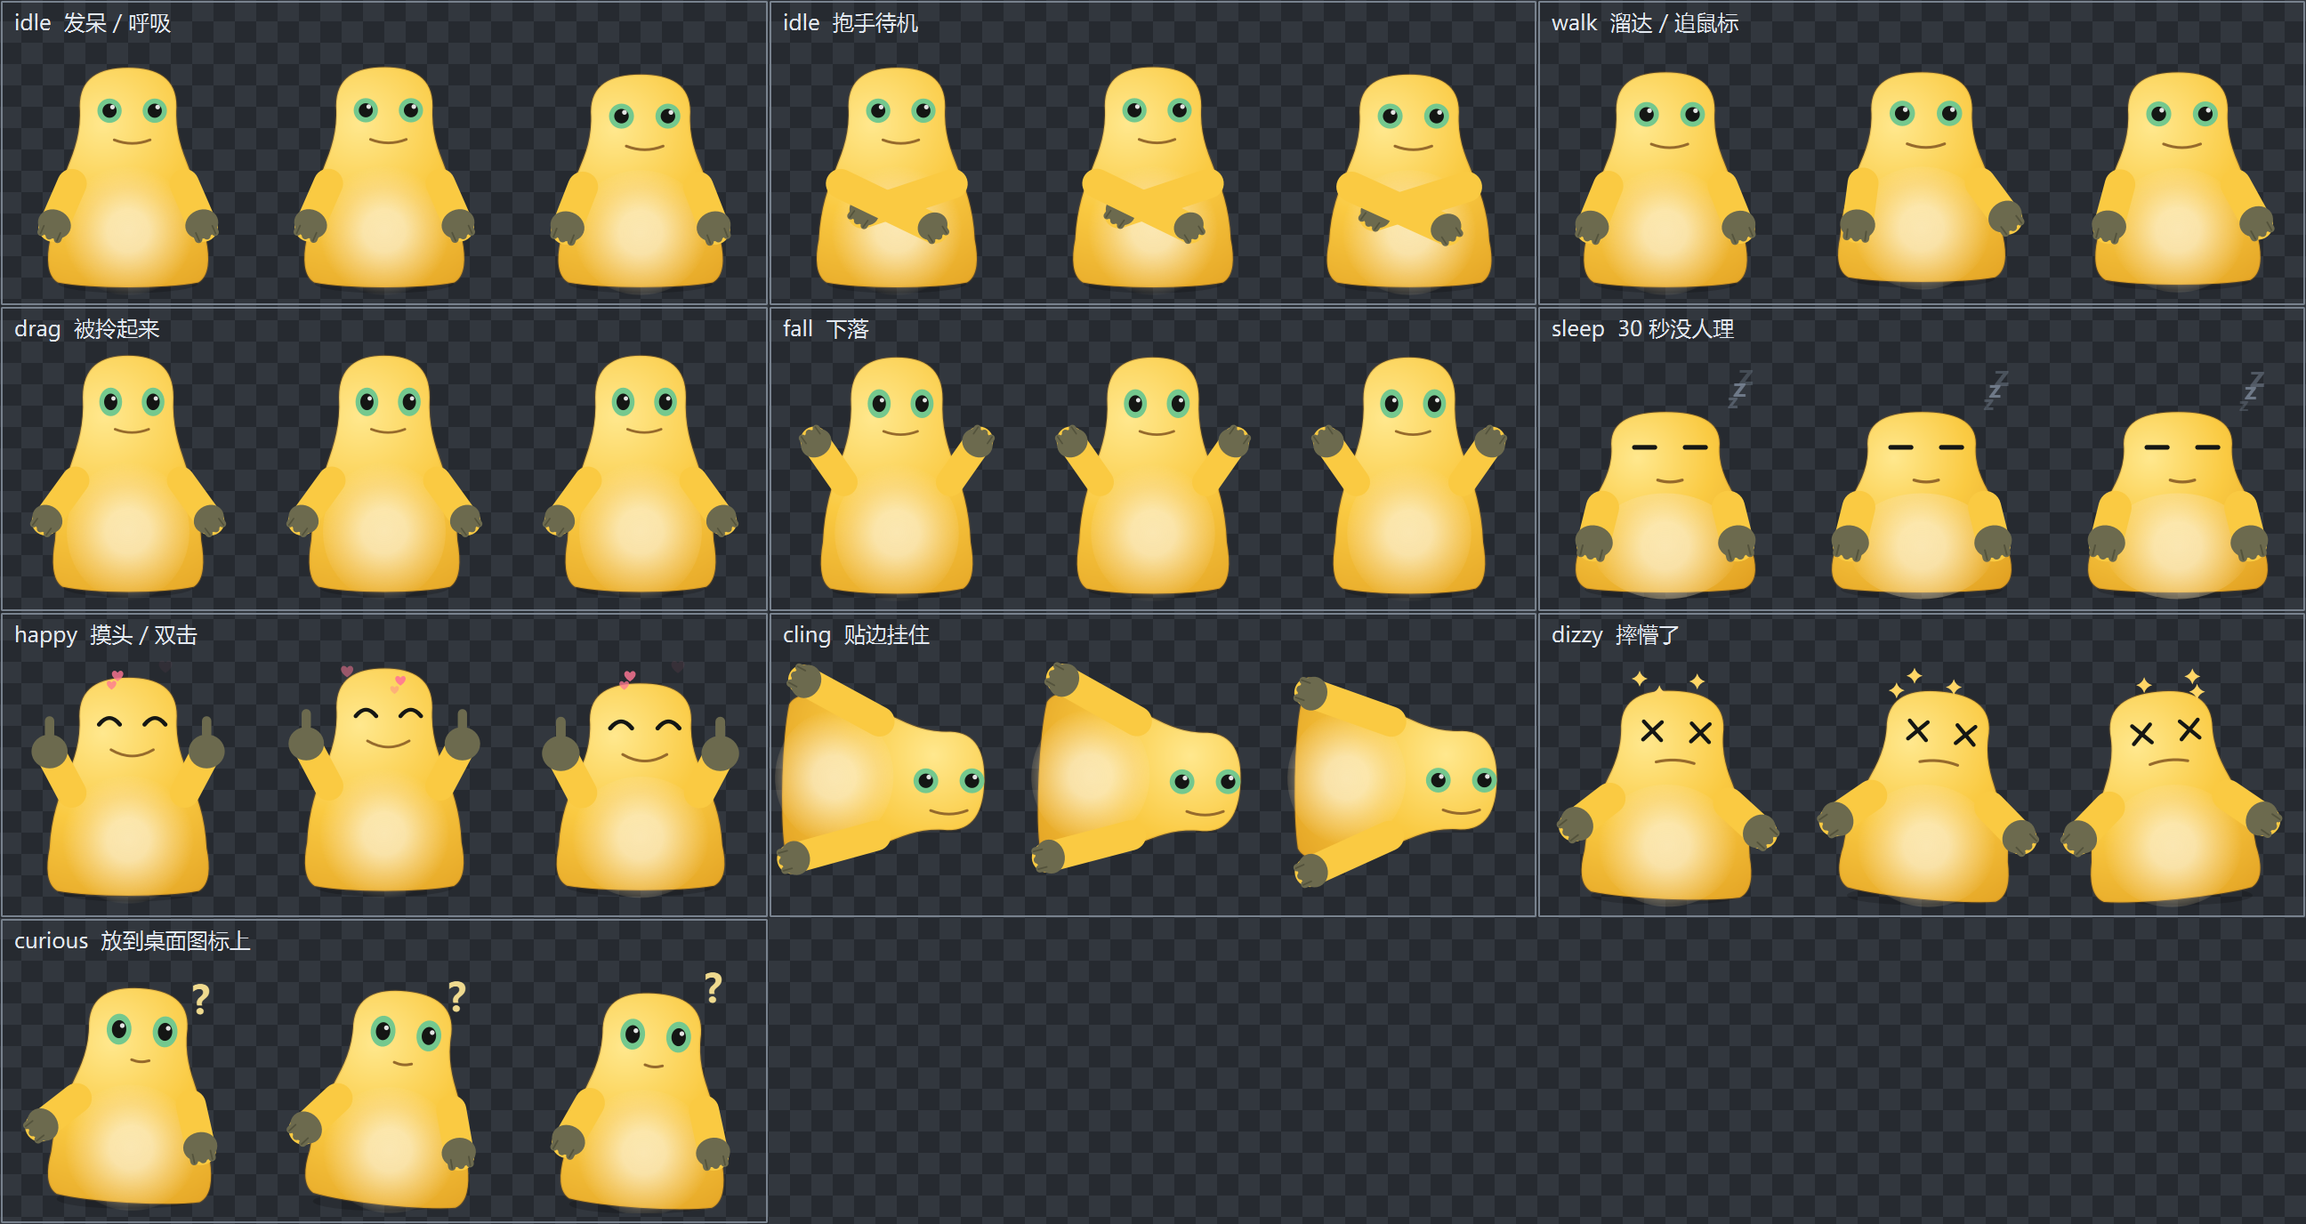
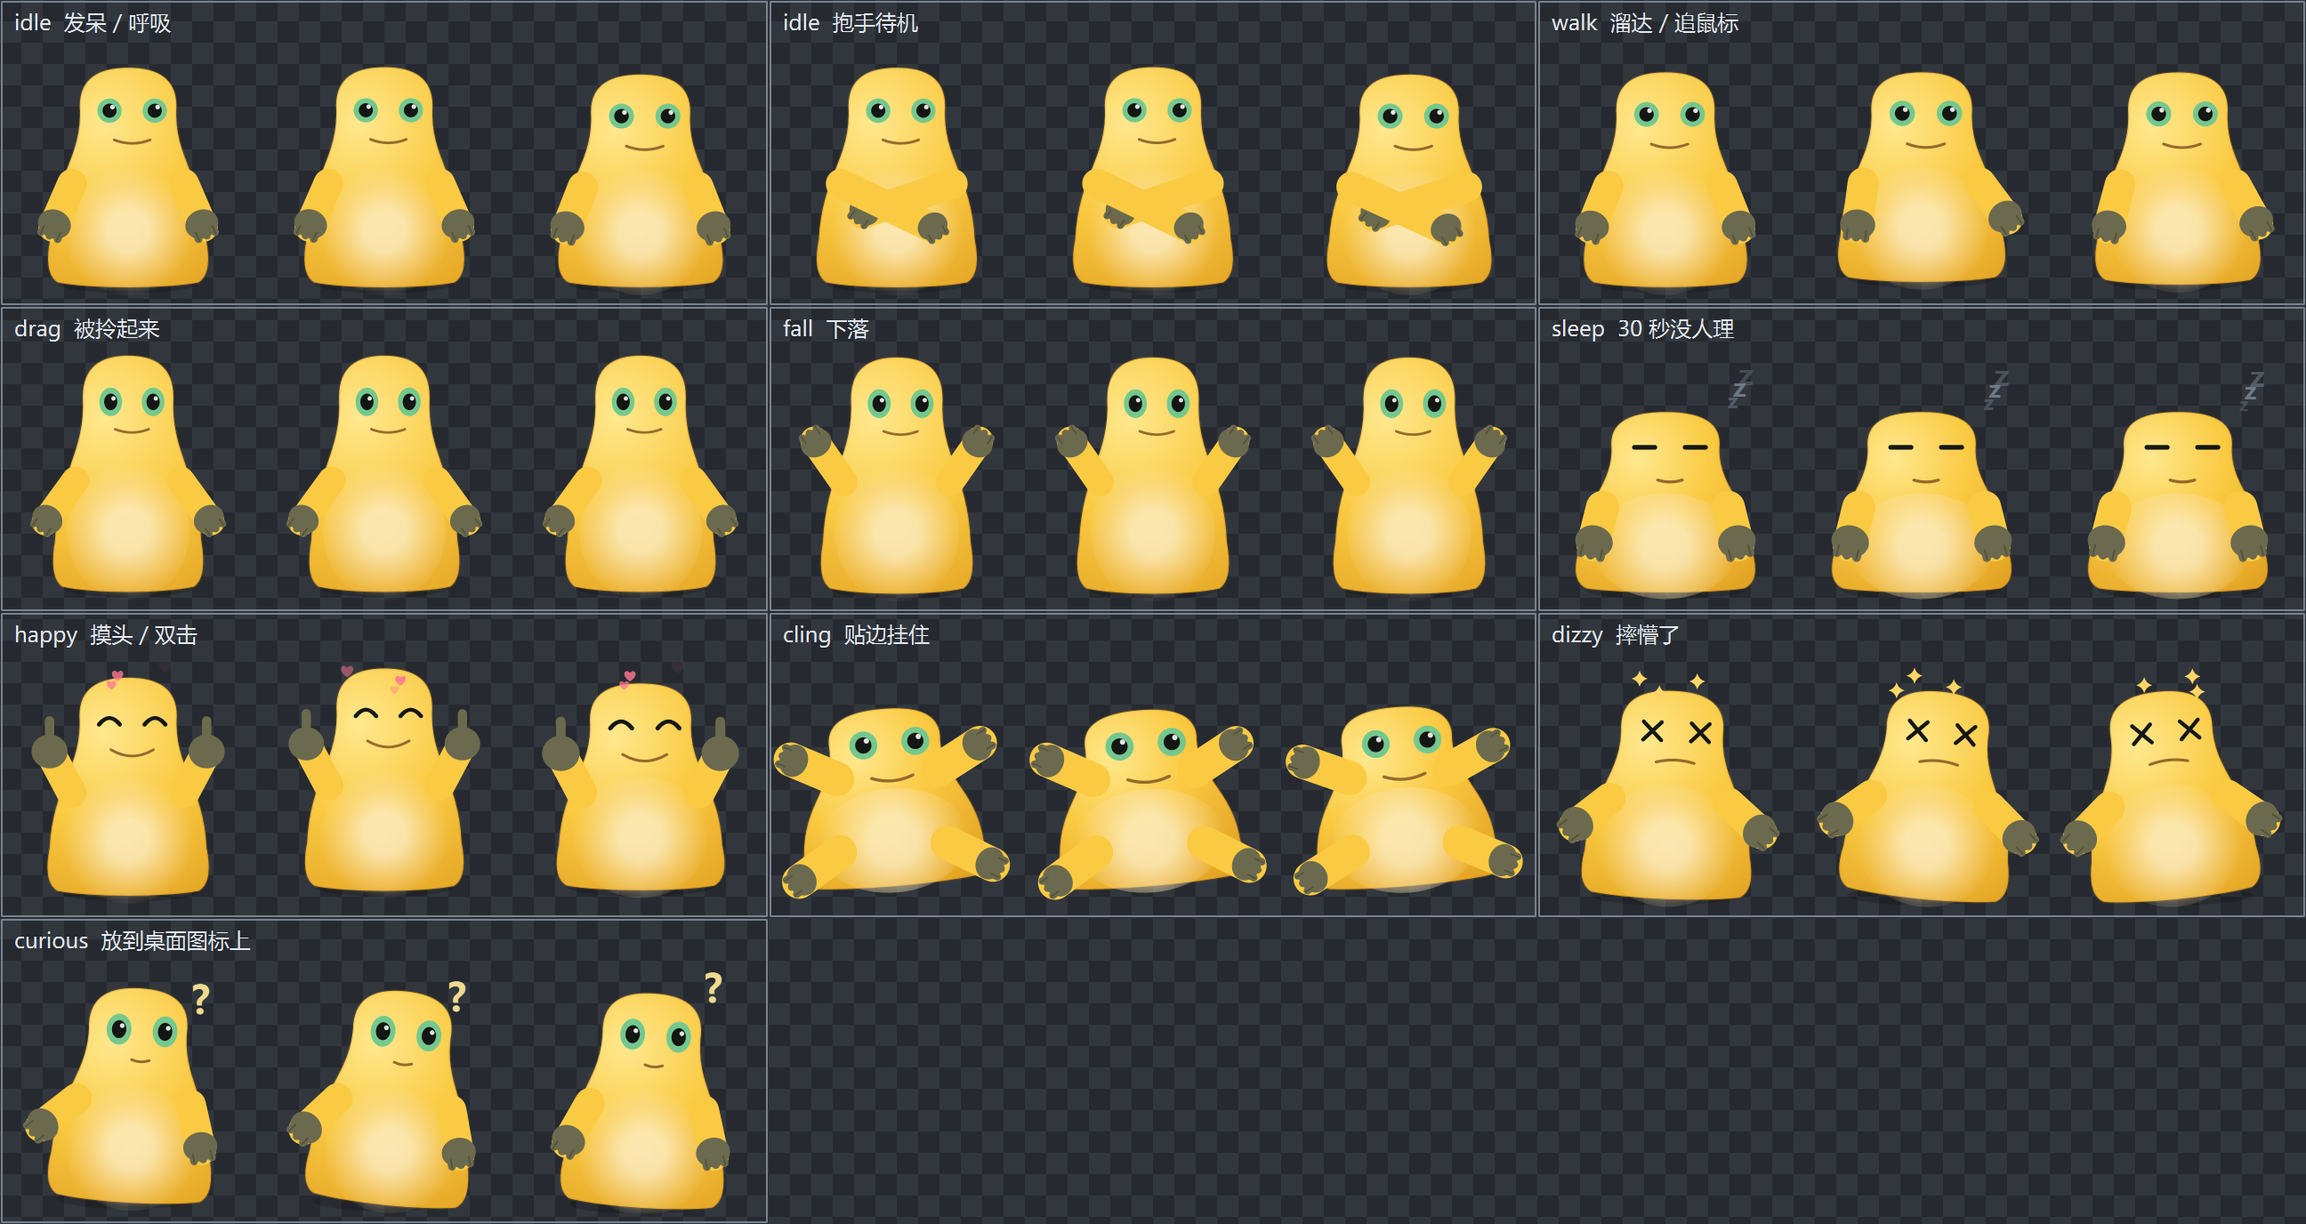
扒墙改成蜘蛛式：正面朝观众，四肢朝四角张开
用户反馈原来的贴墙动作"有点怪"，给了张蜘蛛侠扒墙的参考图。

这个姿势前后改了三版，每版失败的方式不同，但指向同一条规律：

1. 站着往墙上蹭一点 —— 读起来像在挥手。
2. 整只转 90° 横贴 —— 剪影和几何都对，手确实按在墙线上，但读起来是"躺倒"。
3. 正面朝观众、四肢朝四角张开 —— 对了。

中间还试过"直立+倾斜+手臂上举"和"横贴+手臂张开"，都不行。规律是：
正面视角的 2D 角色，靠墙那侧的肢体会被身体自己挡住，所以任何侧贴画法都
看不到接触点，而看不到接触点就读不出"扒住"。横贴那版张开手臂反而更糟——
手会朝离开墙的方向甩出去，连仅有的接触也丢了。

真正让人认出"扒住"的是四肢朝四个方向张开、接触点拉得很开。所以新增
_draw_spread_limbs()，不复用 _arm_angles() 那套绕肩角度——那是给站立姿势
设计的，只有两条肢体且都从体侧垂下；扒墙要四个朝外的锚点，用绝对方向角更清楚。

几何是量出来的：第一版四肢顶出画布，dump 包围盒发现"顶部空 34px、左右和底部
都顶死"，于是整体上移 7px、张开幅度收到 0.28w。最外侧的手落在离屏幕边 2px。

两个断言旧设计的测试（转 90°、绕画布中心旋转）改成断言新意图：压扁、微倾、
倾斜方向朝墙。about_centre 这个能力保留，只是暂时没人用了。

Changed region(s): [[0.3125, 0.5312, 0.6562, 0.75]]

diff --git a/vpet/render.py b/vpet/render.py
@@ -76,17 +76,19 @@ def pose_for(state: State, t: float, facing: int = 1) -> Pose:
         hop = math.sin(t * 8.0)
         return Pose(sx=1 - 0.035 * hop, sy=1 + 0.045 * hop, dy=-abs(hop) * 6.0)
     if state is State.CLING:
-        # 趴在墙上：整只转 90°，脚底顶着墙，屏幕上是一个横躺的剪影。
-        # facing=1 表示趴在左墙上，脚要朝左 —— Qt 里正角度是顺时针，
-        # 而"下"(0,1) 顺时针转 90° 正好变成"左"(-1,0)，所以直接乘 facing。
-        # 再叠一点点晃动表示没趴稳。
-        # dy 不是随手调的：身体在画布里本来是偏下的（脚在底、头在上），
-        # 而支点在画布正中。不先把身体挪到支点上，转 90° 之后长轴就会偏向一侧、
-        # 顶出画布被裁。-11 正好让身体的竖直中心落在 size/2 上。
+        # 扒在墙上：正面朝着观众，身体压扁，四肢朝四角张开（见 _paint_arms）。
+        #
+        # 试过把整只转 90°"横贴"在屏幕边上 —— 手确实按在墙线上，几何是对的，
+        # 但读起来是"躺倒"而不是"扒住"。正面视角的 2D 角色有个绕不开的限制：
+        # **靠墙那侧的肢体会被身体自己挡住**，所以任何"侧贴"的画法都看不到
+        # 接触点。真正让人一眼认出"扒住"的是**四肢朝四个方向张开、
+        # 接触点拉得很开**，而不是身体贴着哪条线。
+        breathe = math.sin(t * 2.0)
         return Pose(
-            sx=1.0, sy=0.94, dy=-3.0,
-            rot=facing * 90.0 + math.sin(t * 1.9) * 3.0,
-            about_centre=True,
+            sx=1.12 + 0.02 * breathe,       # 压扁：贴在面上而不是站着
+            sy=0.84 - 0.02 * breathe,
+            dy=-7.0,                        # 四肢往下张，整体抬起来才不顶到画布底
+            rot=-facing * 5.0,
         )
     if state is State.DIZZY:
         return Pose(sx=1.04, sy=0.97, rot=math.sin(t * 8.0) * 7.0)
@@ -317,6 +319,10 @@ class BlobPet:
         thickness = w * 0.19
         hand_r = w * 0.115
 
+        if state is State.CLING:
+            self._draw_spread_limbs(p, t, cx, bottom, w, h, thickness, hand_r * 0.85)
+            return
+
         if posture is Posture.CROSSED:
             self._draw_crossed_arms(p, cx, shoulder_y, shoulder_x, w, h, thickness, hand_r)
             return
@@ -328,6 +334,34 @@ class BlobPet:
         thumb = state is State.HAPPY
         self._draw_arm(p, QPointF(cx - shoulder_x, shoulder_y), -1, left, length, thickness, hand_r, thumb)
         self._draw_arm(p, QPointF(cx + shoulder_x, shoulder_y), 1, right, length, thickness, hand_r, thumb)
+
+    def _draw_spread_limbs(
+        self, p: QPainter, t: float, cx: float, bottom: float,
+        w: float, h: float, thickness: float, hand_r: float,
+    ) -> None:
+        """扒住墙面的四肢：两手朝上外、两"脚"朝下外，像壁虎吸在玻璃上。
+
+        这里刻意不复用 _arm_angles 那套"绕肩膀转的角度"——那套是给站立姿势
+        设计的，只有两条肢体、而且都从身体两侧垂下。扒墙需要的是四个朝外的
+        接触点，用绝对方向角直接写更清楚。
+        """
+        sway = math.sin(t * 2.3) * 4.0
+        reach = w * 0.28
+        # (肩/胯的横向偏移, 高度比例, 伸出方向角) —— 角度 0=正右, 90=正下
+        limbs = (
+            (-0.28, 0.62, 205.0 + sway), (0.28, 0.62, -25.0 - sway),   # 手：朝上外
+            (-0.30, 0.20, 152.0 - sway), (0.30, 0.20, 28.0 + sway),    # 脚：朝下外
+        )
+        for offset, height, degrees in limbs:
+            root = QPointF(cx + offset * w, bottom - height * h)
+            angle = math.radians(degrees)
+            tip = QPointF(root.x() + math.cos(angle) * reach,
+                          root.y() + math.sin(angle) * reach)
+            p.setPen(QPen(self.BODY_MID, thickness, Qt.SolidLine, Qt.RoundCap))
+            p.drawLine(root, tip)
+            p.setPen(Qt.NoPen)
+            self._draw_hand(p, tip, hand_r,
+                            _hand_rotation(tip.x() - root.x(), tip.y() - root.y()))
 
     def _draw_crossed_arms(
         self, p: QPainter, cx: float, shoulder_y: float, shoulder_x: float,

diff --git a/tests/test_render.py b/tests/test_render.py
@@ -150,17 +150,21 @@ class TestStates(unittest.TestCase):
             pet.render(State.IDLE, 0.5, 1, 1.0, Posture.RELAXED),
         )
 
-    def test_cling_lies_flat_against_the_wall(self):
-        """趴墙是整只转 90°，不是站着往墙上蹭 —— 后者读起来像在挥手。"""
-        for facing in (1, -1):
-            rot = pose_for(State.CLING, 0.0, facing).rot
-            self.assertAlmostEqual(abs(rot), 90.0, delta=6.0, msg=f"facing={facing}")
-            self.assertEqual(rot > 0, facing > 0, "转的方向反了，脚会朝屏幕内侧")
+    def test_cling_squashes_against_the_surface(self):
+        """扒墙靠的是"压扁 + 四肢张开"，不是转 90° 横躺。
 
-    def test_cling_spins_about_the_canvas_centre(self):
-        """绕脚底转的话，90° 会把整个身体甩出画布。"""
-        self.assertTrue(pose_for(State.CLING, 0.0, 1).about_centre)
-        self.assertFalse(pose_for(State.DIZZY, 0.0, 1).about_centre, "踉跄该以落脚点为轴")
+        横躺那版几何上没错（手确实按在墙线上），但读起来是"躺倒"。
+        正面视角的 2D 角色有个绕不开的限制：靠墙那侧的肢体会被身体挡住，
+        所以侧贴怎么画都看不到接触点。
+        """
+        pose = pose_for(State.CLING, 0.0, 1)
+        self.assertGreater(pose.sx, 1.05, "该横向摊开")
+        self.assertLess(pose.sy, 0.90, "该纵向压扁")
+        self.assertLess(abs(pose.rot), 20.0, "只是轻微倾斜，不是转 90°")
+
+    def test_cling_leans_toward_the_wall_it_is_on(self):
+        self.assertLess(pose_for(State.CLING, 0.0, 1).rot, 0)
+        self.assertGreater(pose_for(State.CLING, 0.0, -1).rot, 0)
 
 
 if __name__ == "__main__":

diff --git a/README.md b/README.md
@@ -1,7 +1,7 @@
 # v-pet
 
 **一只住在你任务栏上的 Windows 桌面宠物。** 无边框、置顶、逐像素透明，
-能抓起来甩出去、贴到屏幕边上挂着、走过双屏之间的接缝。64 MB 免安装，冷启动 1.2 秒。
+能抓起来甩出去、扒在屏幕边上、走过双屏之间的接缝。64 MB 免安装，冷启动 1.2 秒。
 
 [![CI](https://github.com/Alexsheng26/V-Pet/actions/workflows/ci.yml/badge.svg)](https://github.com/Alexsheng26/V-Pet/actions/workflows/ci.yml)
 ![status](https://img.shields.io/badge/status-v1.1-blue) ![python](https://img.shields.io/badge/python-3.10%2B-3776ab) ![tests](https://img.shields.io/badge/tests-181-brightgreen) ![deps](https://img.shields.io/badge/运行时依赖-仅%20PySide6-blueviolet) ![license](https://img.shields.io/badge/license-MIT-green)
@@ -41,8 +41,9 @@ python main.py
 但代码里是**照着造型重画**的，没有把参考图打包进仓库。两个原因：
 
 1. 仓库是公开的，塞一张来源不明的图进来，素材版权上说不清楚；
-2. 更实际的是 —— 位图做不到按状态换手势。举手、竖大拇指、单手抓墙、
-   摔懵时手往外张，这些是 `_arm_angles()` 按状态给角度算出来的，一张静态图只能整体形变。
+2. 更实际的是 —— 位图做不到按状态换手势。举手、竖大拇指、抱手、摔懵时手往外张，
+   都是按状态算出来的角度；扒墙那套四肢张开更是另起了一条画法。
+   一张静态图只能整体形变，这些一个都做不了。
 
 想换成自己的图也行，见下面的 `sprites/` 约定。
 
@@ -64,7 +65,7 @@ python main.py
 |---|---|
 | 左键拖动 | 抓起来。松手带着甩出去的速度掉下来，落地弹两下 |
 | 摔得够狠 | 摔懵，头顶转圈星星 |
-| 拖到屏幕左右边缘松手 | **趴在墙上** —— 整只横过来、双手撑着墙、脸仍然朝着你，还会慢慢往下滑 |
+| 拖到屏幕左右边缘松手 | **像蜘蛛侠一样扒在墙上** —— 四肢朝四角张开、身体压扁，还会慢慢往下滑 |
 | 双击 / 在它身上来回搓 | 摸头，眯眼冒爱心 |
 | 右键 → 跟着鼠标 | 追着光标跑；追上就停下，不会在原地抖 |
 | 什么都不干 | 每次停下来有 45% 的概率抱起手，抱着手会站得更久 |
@@ -268,25 +269,33 @@ sprites/
 第一版**一帧图都不用画**是有意的 —— 素材才是这类项目真正的瓶颈，
 不该让它挡住"系统能不能跑通"的验证。
 
-## 趴在墙上：脸不能跟着身体转
+## 扒在墙上：接触点必须在身体轮廓之外
 
-贴墙的第一版是"站着往墙上蹭一点"，读起来像在挥手，完全没有贴住的感觉。
-改成**整只转 90°**之后剪影对了 —— 屏幕上是一个横躺的形状压在边缘 ——
-但又冒出一个更明显的问题：**脸也跟着转了**，眼睛竖着排、嘴竖着，
-读起来是"一坨躺倒的团子"。
+贴墙这个动作改了三版，每一版失败的方式都不一样，最后收敛到一条规律。
 
-所以身体转、脸不转：先在旋转后的坐标系里量出头部落到了屏幕的哪儿，
-退出旋转再平移过去、以正的姿态把脸画上。桌宠贴墙的通行画法都是这样。
+**第一版：站着往墙上蹭一点。** 读起来像在挥手，完全没有贴住的感觉。
 
-另外两处是量出来才发现的：
+**第二版：整只转 90° 横贴。** 剪影是对的 —— 屏幕上一个横躺的形状压在边缘，
+手也确确实实按在墙线上，几何完全正确。但读起来是**"躺倒"**而不是"扒住"。
+（那一版还顺带解决了两个子问题：旋转支点要从脚底改到画布中心，否则 90° 会把
+身体甩出画布；脸不能跟着转，否则眼睛竖着排。）
 
-- **旋转支点得从脚底改到画布中心。** 摇晃、踉跄都该绕落脚点转，但 90° 绕脚底
-  会把整个身体甩出画布。`Pose.about_centre` 就是为这个加的。
-- **手臂长度得翻倍。** 站立时是 `0.22h`，趴着时手会停在身体中段，
-  读起来像两只耳朵而不是撑着墙的手 —— 要伸到脚底那一端才够得着墙。
+**第三版：正面朝观众，四肢朝四角张开。** 这版对了。
 
-身体在画布里本来是偏下的（脚在底、头在上），转 90° 后长轴会偏向一侧顶出画布，
-所以 `dy` 要先把身体挪到支点上，再往墙的方向推到几乎贴合（实测留 3px）。
+中间还试过"直立 + 倾斜 + 手臂上举"和"横贴 + 手臂张开"，都不行，原因指向同一条：
+
+> **正面视角的 2D 角色，靠墙那侧的肢体会被身体自己挡住。**
+
+所以任何"侧贴"画法都看不到接触点 —— 而看不到接触点，就读不出"扒住"。
+横贴那版张开手臂反而更糟：手会朝**离开墙**的方向甩出去，连仅有的接触也丢了。
+
+真正让人一眼认出"扒住"的，不是身体贴着哪条线，而是**四肢朝四个方向张开、
+接触点拉得很开**。所以这一版不复用 `_arm_angles()` 那套"绕肩膀转的角度"——
+那是给站立姿势设计的，只有两条肢体且都从体侧垂下。扒墙需要四个朝外的接触点，
+用绝对方向角直接写更清楚。
+
+几何是量出来的：一开始四肢顶出画布，测出"顶部空了 34px、左右和底部都顶死"，
+于是整体上移 7px、张开幅度收到 `0.28w`。最外侧的手最终落在离屏幕边缘 2px 的位置。
 
 ## 抱手为什么不是一个状态
 

diff --git a/README.en.md b/README.en.md
@@ -1,7 +1,7 @@
 # v-pet
 
 **A desktop pet that lives on your Windows taskbar.** Frameless, always-on-top,
-per-pixel alpha. Throw it across the screen, stick it flat against the screen edge,
+per-pixel alpha. Throw it across the screen, splay it against the screen edge,
 let it walk along the title bars of your open windows. 65 MB portable, 1.2 s cold start.
 
 [![CI](https://github.com/Alexsheng26/V-Pet/actions/workflows/ci.yml/badge.svg)](https://github.com/Alexsheng26/V-Pet/actions/workflows/ci.yml)
@@ -40,7 +40,7 @@ For a portable build that doesn't need Python, see [Releases](https://github.com
 |---|---|
 | Drag and fling it | Falls with the velocity you threw it at, bounces on landing |
 | Throw it hard enough | Gets dizzy, stars circling overhead |
-| Drop it near a screen edge | **Lies flat against the wall**, braced with both hands, slowly sliding down |
+| Drop it near a screen edge | **Splays out against the wall like Spider-Man**, slowly sliding down |
 | Drop it above a window | Stands on the title bar. Move the window and it rides along; close it and it falls |
 | Drop it on a desktop icon | Tilts its head at it with a question mark |
 | Double-click, or rub the cursor over it | Head pat |
@@ -157,7 +157,39 @@ Two details came out of measurement:
   `None` on a full disk or a permissions error. A crash handler that crashes is worse
   than none.
 
-#### Two pets overwrite each other's config
+#### A wall cling needs contact points outside the silhouette
+
+This pose took three attempts, each failing differently, and the failures converge
+on one rule.
+
+**First: standing upright, nudged toward the wall.** Reads as waving.
+
+**Second: rotate the whole thing 90°.** The silhouette is right — a horizontal shape
+pressed against the screen edge — and the hands genuinely touch the wall line.
+Geometrically correct, but it reads as **lying down**, not clinging.
+
+**Third: front-facing, four limbs splayed to the corners.** This one works.
+
+Two more variants were tried in between (upright + tilt + raised arms, and sideways +
+splayed arms) and they failed for the same reason:
+
+> **On a front-facing 2D character, the limb on the wall side is hidden by the body.**
+
+So no "side-on" drawing can show a contact point — and without a visible contact point
+there is no reading of "clinging". Splaying the arms in the rotated version made it
+worse: the hands swing *away* from the wall, losing even the contact it had.
+
+What actually reads as clinging is **limbs spread toward four corners with contact
+points far apart**, not the body hugging a line. That pose deliberately does not reuse
+the shoulder-angle model used for standing — it needs four outward anchors, so absolute
+direction angles are simply clearer.
+
+The geometry was measured, not guessed: the limbs initially overflowed the canvas, a
+bounding-box dump showed 34 px unused at the top while left/right/bottom were flush,
+so the body moved up 7 px and the reach shrank to `0.28w`. The outermost hand ends up
+2 px from the screen edge.
+
+### Two pets overwrite each other's config
 
 Double-click the exe twice and you get two pets — **writing the same `config.json`**.
 Position, size and toggles clobber each other and whoever quits last wins. With autostart
